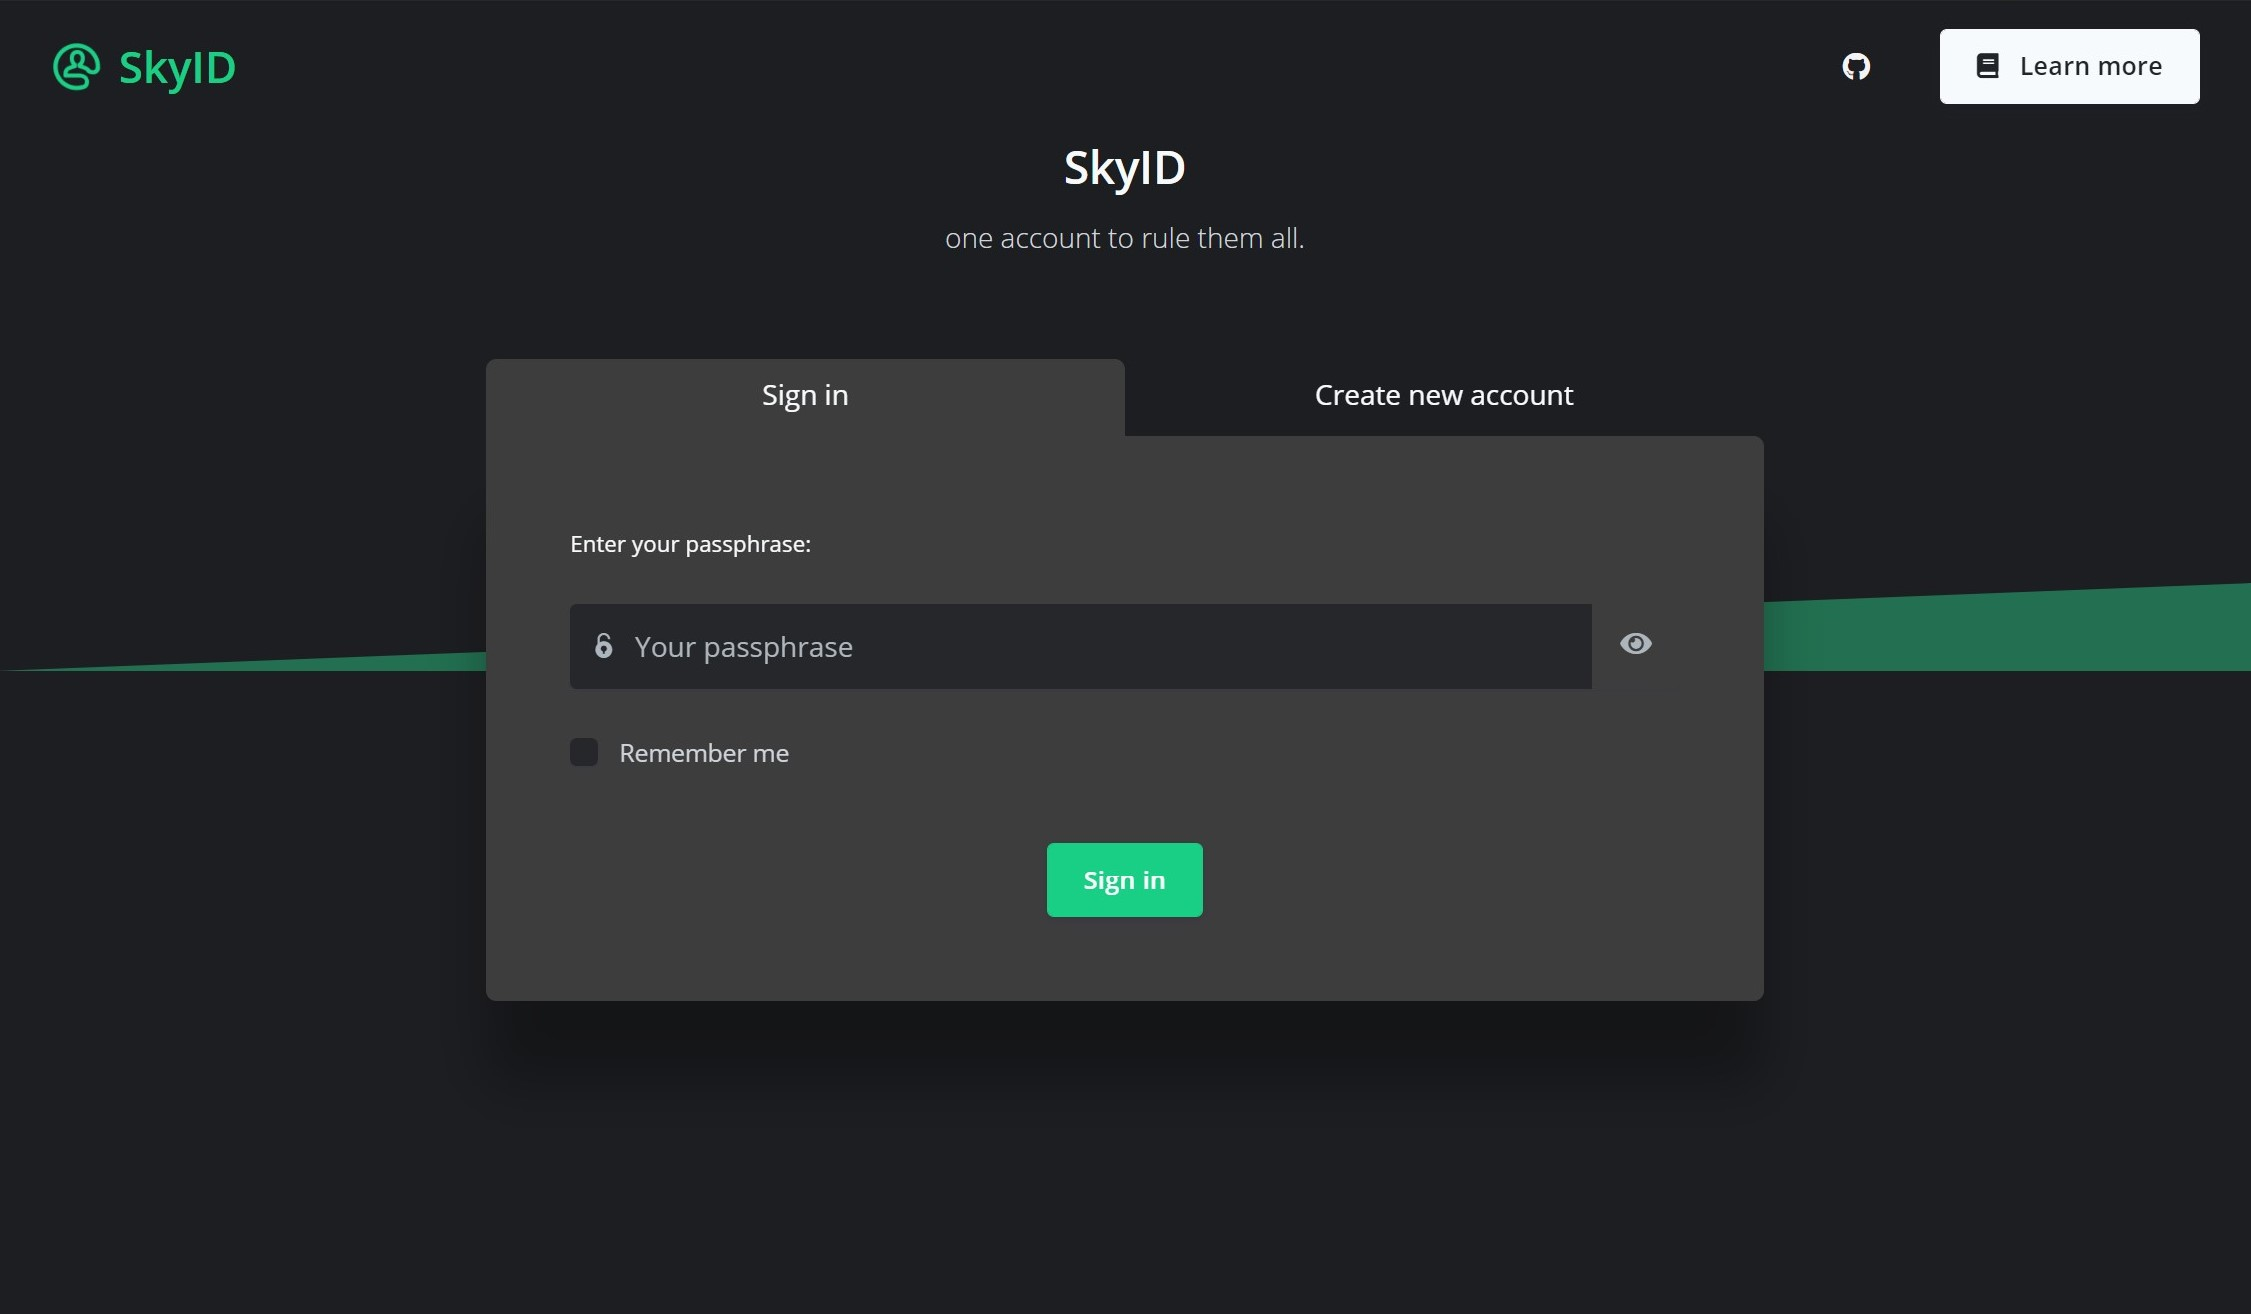
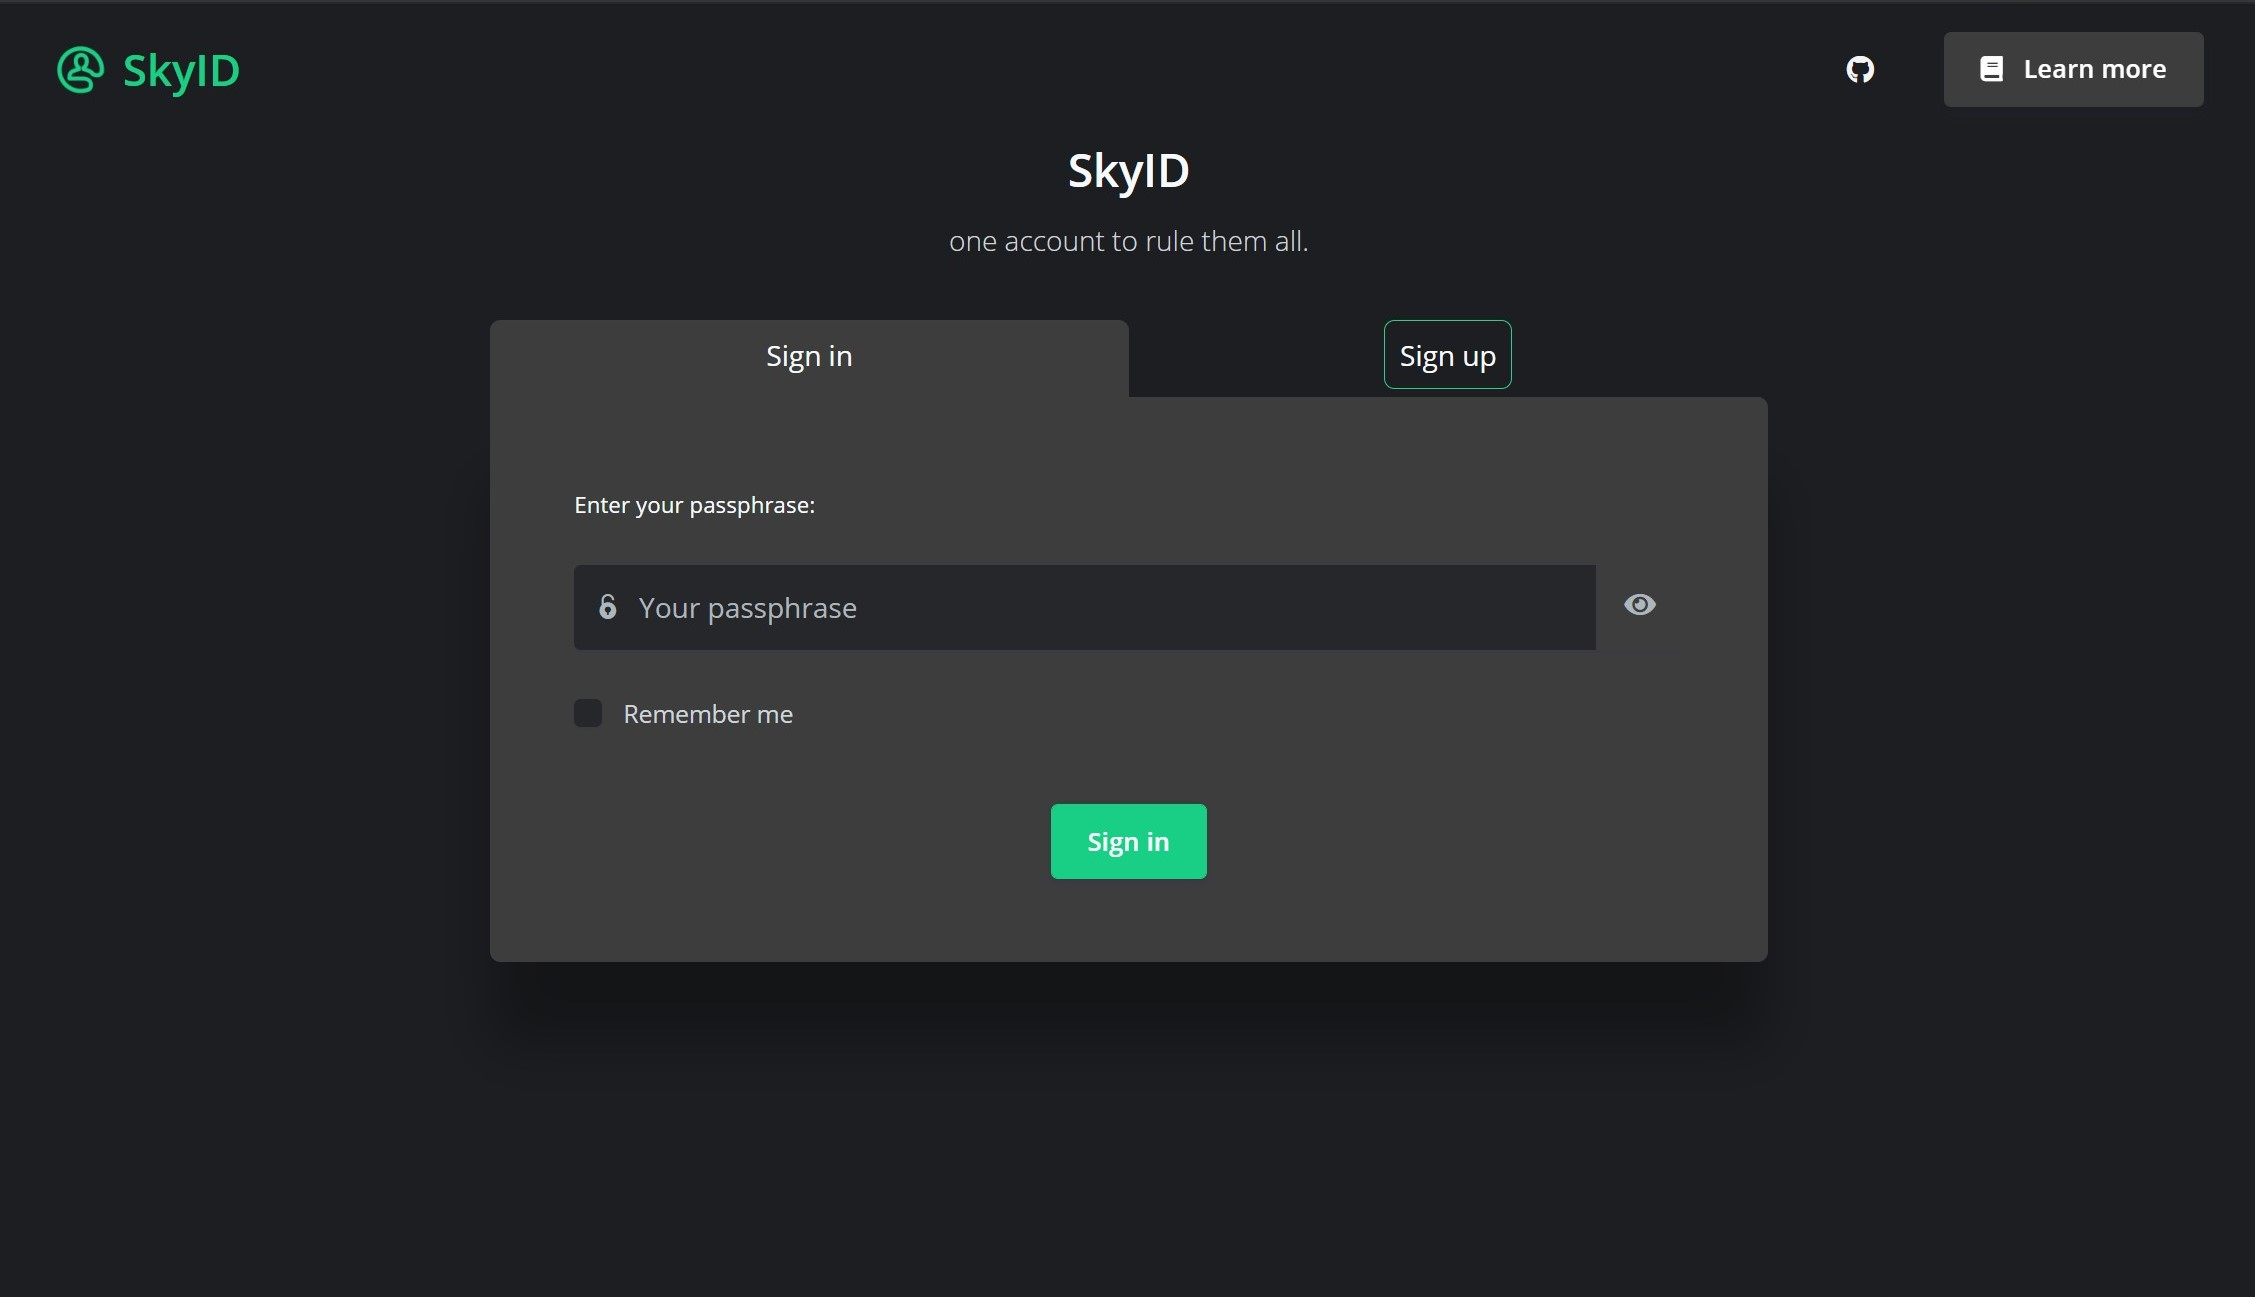
remove polygon index page + change button color + reworded sign up + add border

diff --git a/dist/index.html b/dist/index.html
@@ -98,7 +98,7 @@
           </li> -->
           <li class="nav-item d-none d-lg-block ml-lg-4">
             <a href="https://blog.sia.tech/skyid-how-to-make-decentralized-identity-using-skynet-2b282682f5b3"
-              target="_blank" class="btn btn-secondary btn-icon">
+              target="_blank" class="btn btn-grayish btn-icon">
               <span class="btn-inner--icon">
                 <i class="fas fa-book mr-2"></i>
               </span>
@@ -125,12 +125,6 @@
           </div>
         </div>
       </div>
-      <div class="separator separator-header separator-skew zindex-100 py-5 pt-6 py-lg-6 pt-lg-4">
-        <svg x="0" y="0" viewBox="0 0 2560 100" preserveAspectRatio="none" version="1.1"
-          xmlns="http://www.w3.org/2000/svg">
-          <polygon class="fill-skygreenish" points="2560 0 2560 100 0 100"></polygon>
-        </svg>
-      </div>
     </div>
     <!-- Page content -->
     <div class="container mt--8 py-5 pt-6 py-lg-5 pt-lg-4">
@@ -142,7 +136,8 @@
               Sign in
             </div>
             <div class="col-6 mb-1 text-secondary text-center p-2" id="register_btn" onclick="switchPage('#register')">
-              Create new account
+<span id="register_border" class="col-2 p-2 border border-success rounded">
+              Sign up </span>
             </div>
           </div>
           <div id="login_card" class="card bg-grayish border-0 mb-0 rounded-bottom no-top-left-radius">
@@ -216,7 +211,7 @@
                   </label>
                 </div>
                 <div class="text-center">
-                  <button id="createAccountBtn" type="submit" class="btn btn-skygreenish mt-4">Create account</button>
+                  <button id="createAccountBtn" type="submit" class="btn btn-skygreenish mt-4">Sign up</button>
                 </div>
 
 
@@ -302,6 +297,7 @@
         $('#pagecard').removeClass('no-top-left-radius')
         $('#register_card').removeClass('display-none')
         $('#login_card').addClass('display-none')
+        $('#register_border').removeClass('rounded border border-success')
       } else if (page == '#login' || page == '') {
         $('#login_btn').addClass('bg-grayish   rounded-top')
         // $('#login_btn').removeClass('text-secondary mb-1')
@@ -312,6 +308,7 @@
         $('#pagecard').removeClass('no-top-right-radius')
         $('#register_card').addClass('display-none')
         $('#login_card').removeClass('display-none')
+        $('#register_border').addClass('rounded border border-success')
       }
     }
 

diff --git a/dist/assets/css/argon.css b/dist/assets/css/argon.css
@@ -30057,3 +30057,42 @@ a.text-grayish:focus
     color: black !important;
 }
 
+.btn-grayish
+{
+    color: #fff;
+    border-color: #3d3d3d;
+    background-color: #3d3d3d;
+    box-shadow: 0 4px 6px rgba(50, 50, 93, .11), 0 1px 3px rgba(0, 0, 0, .08);
+}
+.btn-grayish:hover
+{
+    color: #fff;
+    border-color: #3d3d3d;
+    background-color: #25272a;
+}
+.btn-grayish:focus,
+.btn-grayish.focus
+{
+    box-shadow: 0 4px 6px rgba(50, 50, 93, .11), 0 1px 3px rgba(0, 0, 0, .08), 0 0 0 0 rgba(45, 206, 137, .5);
+}
+.btn-grayish.disabled,
+.btn-grayish:disabled
+{
+    color: #fff;
+    border-color: #3d3d3d;
+    background-color: #3d3d3d;
+}
+.btn-grayish:not(:disabled):not(.disabled):active,
+.btn-grayish:not(:disabled):not(.disabled).active,
+.show > .btn-grayish.dropdown-toggle
+{
+    color: #fff;
+    border-color: #3d3d3d;
+    background-color: #25272a;
+}
+.btn-grayish:not(:disabled):not(.disabled):active:focus,
+.btn-grayish:not(:disabled):not(.disabled).active:focus,
+.show > .btn-grayish.dropdown-toggle:focus
+{
+    box-shadow: none, 0 0 0 0 rgba(45, 206, 137, .5);
+}

diff --git a/README.md b/README.md
@@ -2,7 +2,7 @@ old styling: https://siasky.net/IADUoX_G49GKKr9CsC-kyMBV5xUefCqUVjD0KLvoiwwkkQ/
 
 new styling (black theme): https://siasky.net/IADLI6XrYIook758BKYCKjUMzBywuRrsSWSTrwDhamEFgA
 
-even newer (and better) styling: https://siasky.net/IACNjsRRCDIl-xk0FOHg-J8GRw6AIWAOPdTncwo5Qc5usQ
+even newer (and better) styling: https://siasky.net/IABfghG9iSjoouoteZFvXSsFzmJjTgjeT6mUxEGJJVFueg/
 
 # SkyID (newest styling)
 
